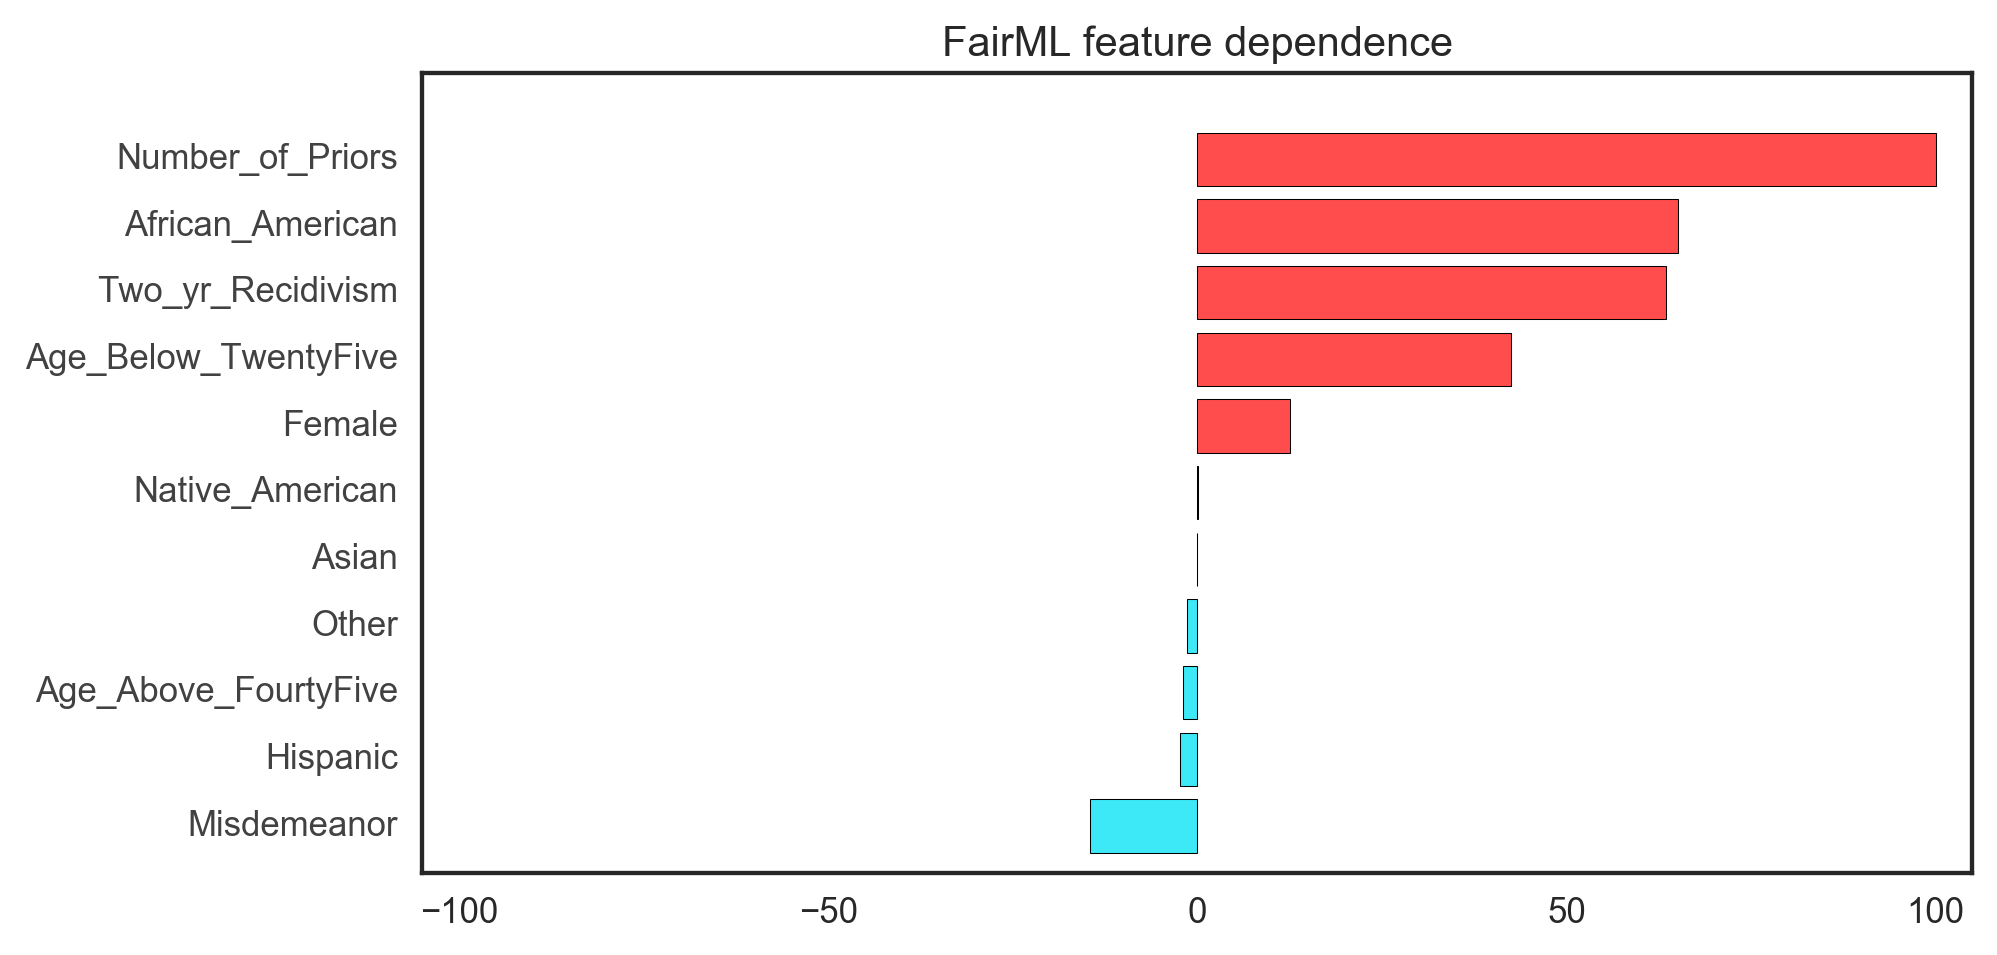
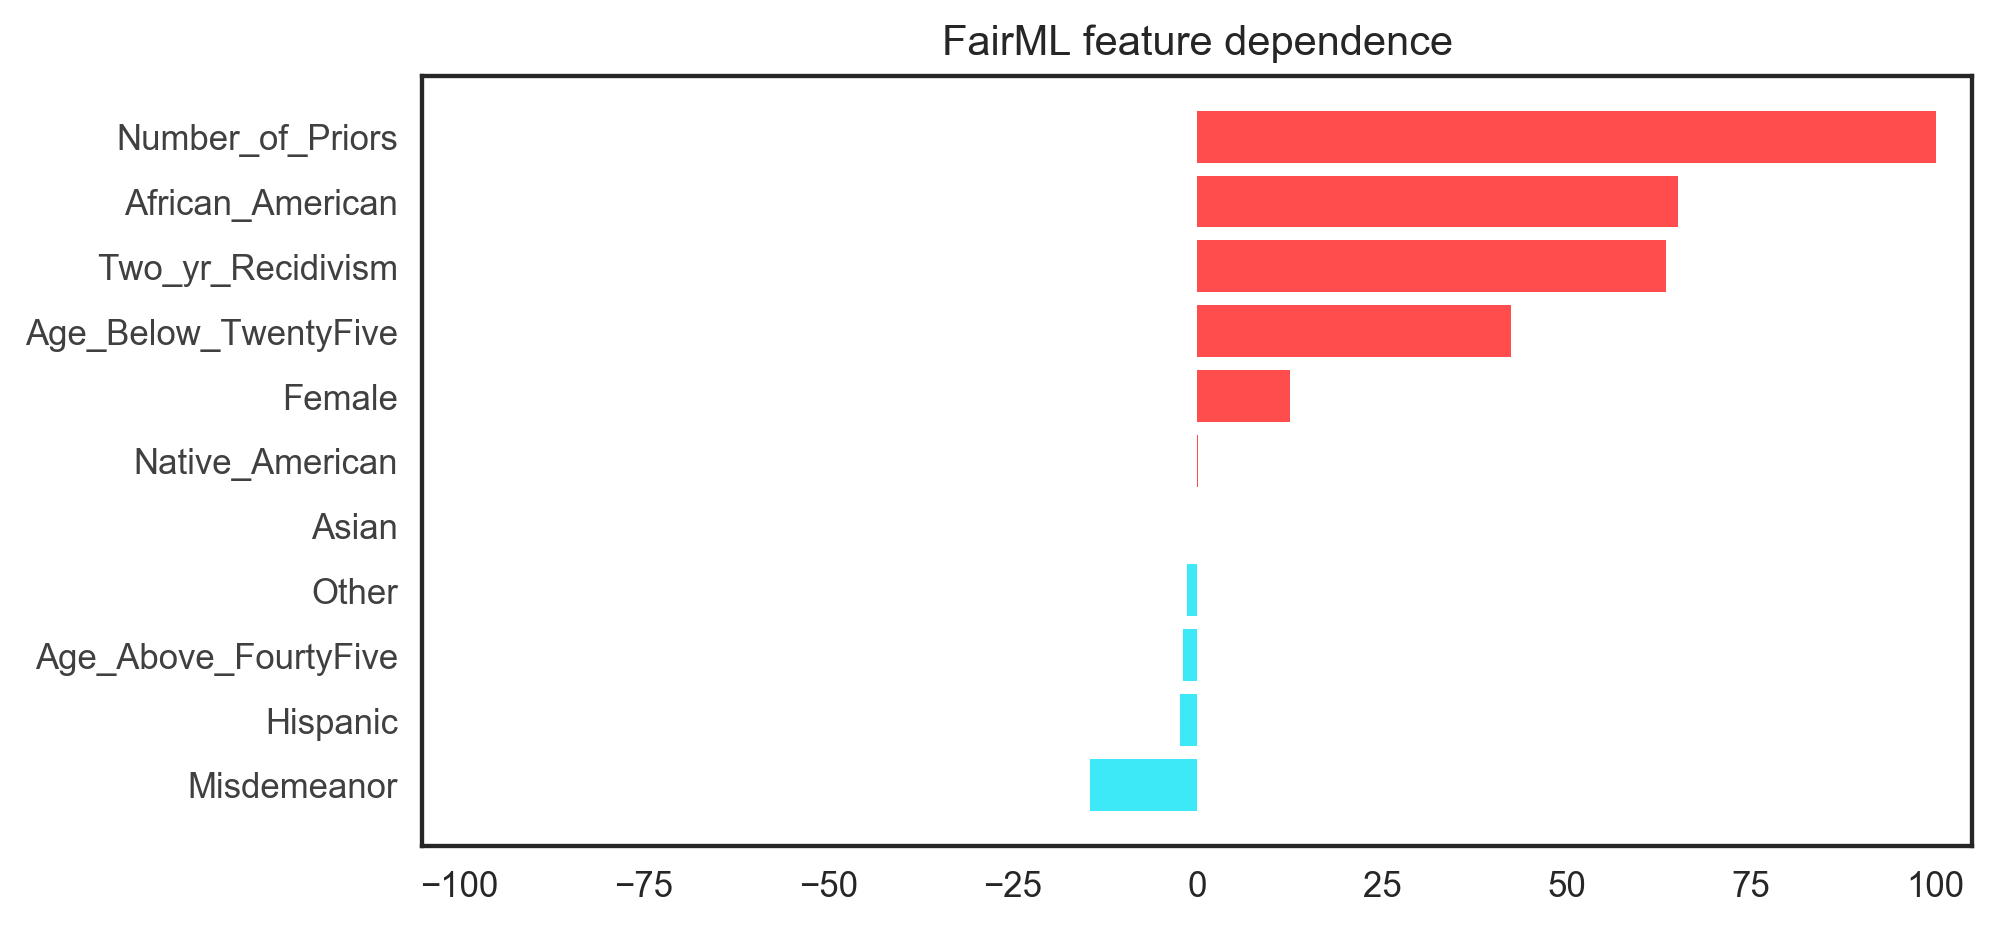
adding demo to readme for the propublica results

diff --git a/README.md b/README.md
@@ -32,17 +32,106 @@ input data.
 
 <img src="https://github.com/adebayoj/fairml/blob/master/doc/images/fairml_methodology_picture.png" width="700">
 
-### Example Output
+### Code Demo
 
-<img src="https://raw.githubusercontent.com/adebayoj/fairml/master/doc/images/ricci_analysis.png" width="700">
+Now we show how to use the fairml python package to audit
+a black-box model.
+
+```python
+"""
+First we import modules for model building and data
+processing.
+"""
+import pandas as pd
+import numpy as np
+from sklearn.linear_model import LogisticRegression
+
+"""
+Now, we import the two key methods from fairml.
+audit_model takes:
+
+- (required) black-box function, which is the model to be audited
+- (required) sample_data to be perturbed for querying the function. This has to be a pandas dataframe with no missing data.
+
+- other optional parameters that control the mechanics of the auditing process, for example:
+  - number_of_runs : number of iterations to perform
+  - interactions : flag to enable checking model dependence on interactions.
+
+audit_model returns an overloaded dictionary where keys are the column names of input pandas dataframe and values are lists containing model  dependence on that particular feature. These lists of size number_of_runs.
+
+"""
+from fairml import audit_model
+from fairml import plot_generic_dependence_dictionary
+```
+
+Above, we provide a quick explanation of the key fairml functionality. Now we move into building an example model that we'd like to audit.
+
+```python
+# read in the propublica data to be used for our analysis.
+propublica_data = pd.read_csv(
+    filepath_or_buffer="./doc/example_notebooks/"
+    "propublica_data_for_fairml.csv",
+    sep=",",
+    header=0)
+
+# create feature and design matrix for model building.
+compas_rating = propublica_data.score_factor.values
+propublica_data = propublica_data.drop("score_factor", 1)
+
+
+# this is just for demonstration, any classifier or regressor
+# can be used here. fairml only requires a predict function
+# to diagnose a black-box model.
+
+# we fit a quick and dirty logistic regression sklearn
+# model here.
+clf = LogisticRegression(penalty='l2', C=0.01)
+clf.fit(propublica_data.values, compas_rating)
+
+```
+
+Now let's audit the model built with FairML.
+
+```python
+
+#  call audit model with model
+total, _ = audit_model(
+    clf.predict,
+    propublica_data,
+    distance_metric="mse",
+    direct_input_pertubation_strategy="constant-median",
+    number_of_runs=10,
+    include_interactions=False,
+    external_data_set=None
+)
+
+# print feature importance
+print(total)
+
+# generate feature dependence plot
+_ = plot_generic_dependence_dictionary(
+    total.get_compress_dictionary_into_key_median(),
+    reverse_values=False,
+    title="FairML feature dependence",
+    save_path="fairml_propublica_linear_direct.eps",
+    show_plot=True
+)
+```
+
+The demo above produces the figure below. 
+
+<img src="https://raw.githubusercontent.com/adebayoj/fairml/master/doc/images/feature_dependence_plot_fairml_propublica_linear_direct.png" width="700">
 
 
 Feel free to email the authors with any questions:  
 [Julius Adebayo](https://github.com/adebayoj) (julius.adebayo@gmail.com)   
 
 
-### Data used in the paper
+### Data
 
-Include Sample data here. 
+The data used for the demo above is available in the repo at: 
+/doc/example_notebooks/propublica_data_for_fairml.csv
+
+
 
 
